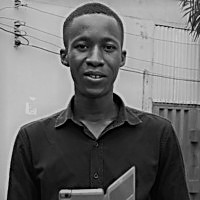
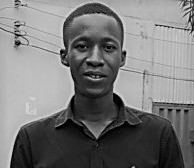
Updates

diff --git a/index.html b/index.html
@@ -47,24 +47,24 @@
     <main id="home">
       <h1 class="lg-heading">Abiola<span class="text-secondary">Soft</span></h1>
       <h2 class="sm-heading">
-        Web developer, Programmer, Automation engineer & Designer
+        Software developer, Automation engineer & Designer
       </h2>
 
       <div class="icons">
         <a href="https://twitter.com/AbiolaSoft">
-          <span class="fab fa-twitter fa-2x"></span>
+          <span class="fab fa-twitter fa-2x" title="Twitter"></span>
         </a>
         <a href="https://web.facebook.com/ola.kunle.5">
-          <span class="fab fa-facebook fa-2x"></span>
+          <span class="fab fa-facebook fa-2x" title="Facebook"></span>
         </a>
         <a href="https://www.linkedin.com/in/olakunle-abiola-3b3715146/">
-          <span class="fab fa-linkedin fa-2x"></span>
+          <span class="fab fa-linkedin fa-2x" title="LinkedIn"></span>
         </a>
         <a href="https://github.com/abiolakunle">
-          <span class="fab fa-github fa-2x"></span>
+          <span class="fab fa-github fa-2x" title="Github"></span>
         </a>
         <a href="https://play.google.com/store/apps/developer?id=Abiolasoft">
-          <span class="fab fa-google-play fa-2x"></span>
+          <span class="fab fa-google-play fa-2x" title="PlayStore"></span>
         </a>
       </div>
     </main>

diff --git a/css/main.css b/css/main.css
@@ -24,7 +24,7 @@
   position: fixed;
   top: 0;
   width: 100%;
-  opacity: 0.95;
+  opacity: 0.98;
   visibility: hidden; }
   .menu.show {
     visibility: visible; }
@@ -58,6 +58,7 @@
       background: url(../img/portrait.jpeg);
       -webkit-background-size: cover;
       background-size: cover;
+      background-position: center;
       border: 3px crimson solid;
       border-radius: 50%; }
   .menu .nav-item {
@@ -114,7 +115,7 @@ body {
       width: 100%;
       height: 100%;
       z-index: -1;
-      background: rgba(68, 68, 68, 0.4); }
+      background: rgba(68, 68, 68, 0.3); }
 
 h1,
 h2,
@@ -168,6 +169,8 @@ main {
   .about-info .bio-image {
     grid-area: bioimage;
     margin: auto;
+    width: 300px;
+    height: 300px;
     border-radius: 50%;
     border: 3px solid crimson; }
   .about-info .bio {
